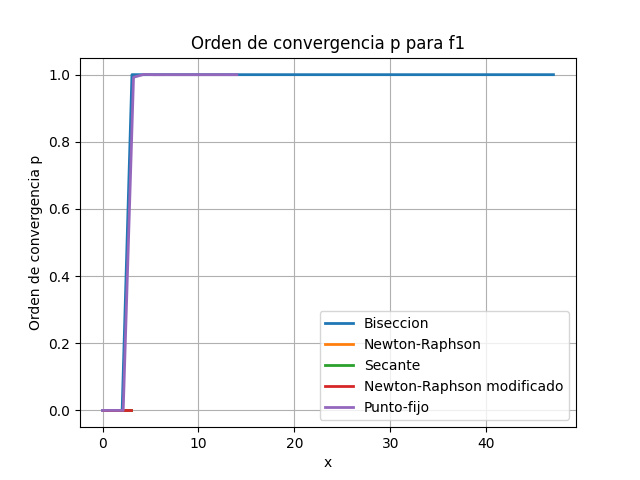
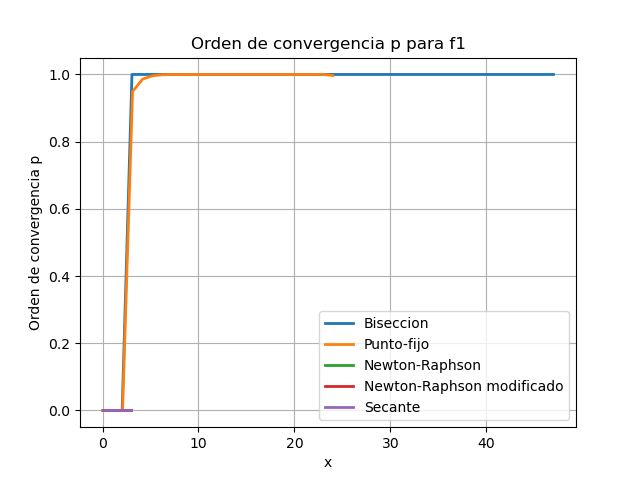
agrego punto fijo a todos los graficos

diff --git a/tp1/ejercicio3raices/item_g/comparacion_ordenes.py b/tp1/ejercicio3raices/item_g/comparacion_ordenes.py
@@ -3,17 +3,22 @@ from tp1.ejercicio3raices.item_e.ordenes.convergencia_f1 import ordenb1
 from tp1.ejercicio3raices.item_e.ordenes.convergencia_f1 import orden_nr1
 from tp1.ejercicio3raices.item_e.ordenes.convergencia_f1 import orden_secante1
 from tp1.ejercicio3raices.item_e.ordenes.convergencia_f1 import orden_nr_modificado1
+from tp1.ejercicio3raices.item_e.ordenes.convergencia_f1 import orden_pf1
 from tp1.ejercicio3raices.item_e.ordenes.convergencia_f2 import ordenb2
 from tp1.ejercicio3raices.item_e.ordenes.convergencia_f2 import orden_nr2
 from tp1.ejercicio3raices.item_e.ordenes.convergencia_f2 import orden_secante2
 from tp1.ejercicio3raices.item_e.ordenes.convergencia_f2 import orden_nr_modificado2
+from tp1.ejercicio3raices.item_e.ordenes.convergencia_f2 import orden_pf2
+
 plt.figure()
 
 
 plt.plot(ordenb1[:], '-', lw=2, label='Biseccion')
+plt.plot(orden_pf1[:], '-', lw=2, label='Punto fijo')
 plt.plot(orden_nr1[:], '-', lw=2, label='NR')
 plt.plot(orden_nr_modificado1[:], '-', lw=2, label='Newton-Raphson modificado')
 plt.plot(orden_secante1[:], '-', lw=2, label='Secante')
+
 plt.title('Raices para f1(x)')
 
 
@@ -30,9 +35,11 @@ plt.figure()
 
 
 plt.plot(ordenb2[:], '-', lw=2, label='Biseccion')
+plt.plot(orden_pf2[:], '-', lw=2, label='Punto fijo')
 plt.plot(orden_nr2[:], '-', lw=2, label='NR')
 plt.plot(orden_nr_modificado2[:], '-', lw=2, label='Newton-Raphson modificado')
 plt.plot(orden_secante2[:], '-', lw=2, label='Secante')
+
 plt.title('Raices para f2(x)')
 
 

diff --git a/tp1/ejercicio3raices/item_e/ordenes/convergencia_f2.py b/tp1/ejercicio3raices/item_e/ordenes/convergencia_f2.py
@@ -9,7 +9,7 @@ import numpy as np
 
 ordenb2 = orden.estimar_ordenar_convergencia(biseccion2[0], len(biseccion2[0]))
 orden_nr2 = orden.estimar_ordenar_convergencia(nr2[0], len(nr2[0]))
-orden_pf2 = orden.estimar_ordenar_convergencia(pfijo2[0],len(pfijo2[0]))
+orden_pf2 = orden.estimar_ordenar_convergencia(pfijo2[0], len(pfijo2[0]))
 orden_secante2 = orden.estimar_ordenar_convergencia(secante2[0], len(secante2[0]))
 orden_nr_modificado2 = orden.estimar_ordenar_convergencia(nr_modificado2[0], len(nr_modificado2[0]))
 
@@ -32,10 +32,10 @@ y5 = orden_pf2[0:len(pfijo2[0])]
 
 
 plt.plot(x1, y1, '-', lw=2, label='Biseccion')
-plt.plot(x2, y2, '-', lw=2, label='Newton-Raphson')
-plt.plot(x3, y3, '-', lw=2, label='Secante')
-plt.plot(x4, y4, '-', lw=2, label='Newton-Raphson modificado')
 plt.plot(x5, y5, '-', lw=2, label='Punto-fijo')
+plt.plot(x2, y2, '-', lw=2, label='Newton-Raphson')
+plt.plot(x4, y4, '-', lw=2, label='Newton-Raphson modificado')
+plt.plot(x3, y3, '-', lw=2, label='Secante')
 
 nombre_grafico = 'Orden de convergencia p para f2'
 plt.title(nombre_grafico)

diff --git a/tp1/ejercicio3raices/item_e/constantes_asintoticas/constante_f2.py b/tp1/ejercicio3raices/item_e/constantes_asintoticas/constante_f2.py
@@ -35,10 +35,10 @@ x5 = np.linspace(0, len(modos.pfijo2[0]), len(modos.pfijo2[0]))
 y5 = lambda_pf2
 
 plt.plot(x1, y1, '-', lw=2, label='Biseccion')
-plt.plot(x2, y2, '-', lw=2, label='Newton-Raphson')
-plt.plot(x3, y3, '-', lw=2, label='Secante')
-plt.plot(x4, y4, '-', lw=2, label='Newton-Raphson modificado')
 plt.plot(x5, y5, '-', lw=2, label='Punto_fijo')
+plt.plot(x2, y2, '-', lw=2, label='Newton-Raphson')
+plt.plot(x4, y4, '-', lw=2, label='Newton-Raphson modificado')
+plt.plot(x3, y3, '-', lw=2, label='Secante')
 
 nombre_grafico = 'Constante asintótica f2'
 plt.title(nombre_grafico)

diff --git a/tp1/ejercicio3raices/item_e/constantes_asintoticas/constante_f1.py b/tp1/ejercicio3raices/item_e/constantes_asintoticas/constante_f1.py
@@ -39,10 +39,10 @@ x5 = np.linspace(0, len(modos.pfijo1[0]), len(modos.pfijo1[0]))
 y5 = lambda_pf1
 
 plt.plot(x1, y1, '-', lw=2, label='Biseccion')
-plt.plot(x2, y2, '-', lw=2, label='Newton-Raphson')
-plt.plot(x3, y3, '-', lw=2, label='Secante')
-plt.plot(x4, y4, '-', lw=2, label='Newton-Raphson modificado')
 plt.plot(x5, y5, '-', lw=2, label='Punto_fijo')
+plt.plot(x2, y2, '-', lw=2, label='Newton-Raphson')
+plt.plot(x4, y4, '-', lw=2, label='Newton-Raphson modificado')
+plt.plot(x3, y3, '-', lw=2, label='Secante')
 
 
 nombre_grafico = 'Constante asintótica f1'

diff --git a/tp1/ejercicio3raices/item_e/ordenes/convergencia_f1.py b/tp1/ejercicio3raices/item_e/ordenes/convergencia_f1.py
@@ -32,10 +32,10 @@ y5 = orden_pf1[0:len(pfijo1[0])]
 
 
 plt.plot(x1, y1, '-', lw=2, label='Biseccion')
-plt.plot(x2, y2, '-', lw=2, label='Newton-Raphson')
-plt.plot(x3, y3, '-', lw=2, label='Secante')
-plt.plot(x4, y4, '-', lw=2, label='Newton-Raphson modificado')
 plt.plot(x5, y5, '-', lw=2, label='Punto-fijo')
+plt.plot(x2, y2, '-', lw=2, label='Newton-Raphson')
+plt.plot(x4, y4, '-', lw=2, label='Newton-Raphson modificado')
+plt.plot(x3, y3, '-', lw=2, label='Secante')
 
 nombre_grafico = 'Orden de convergencia p para f1'
 plt.title(nombre_grafico)

diff --git a/tp1/ejercicio3raices/item_b/f2_volumen_al_100.py b/tp1/ejercicio3raices/item_b/f2_volumen_al_100.py
@@ -1,19 +1,8 @@
 import tp1.ejercicio3raices.analisis_problema_fisico as analisis
-import numpy as np
-
 
 def f2(x):
     # Quiero ver el volumen en 2R cuando el tanque se encuentra lleno al 100%
     return analisis.v(x) - (analisis.v(2 * 4.25) * 1)
 
-
-#def g2(x):
-    #return np.sqrt(((analisis.v(2 * 4.25))* 1 * 3 )/((3 * 4.25 - x) * np.pi))
-
-
 def g2(x):
     return x - (f2(x) / analisis.derivada(x))
-
-
-#def g2_aux(x):
-  #  return -np.sqrt(((analisis.v(2 * 4.25))* 1 * 3 )/((3 * 4.25 - x) * np.pi))

diff --git a/tp1/ejercicio1candado/item_b.py b/tp1/ejercicio1candado/item_b.py
@@ -1,4 +1,4 @@
-import ejercicio1candado.item_a as fb
+import tp1.ejercicio1candado.item_a as fb
 
 def realizar_fuerza_bruta(numero):
     comb_descubierta = False
